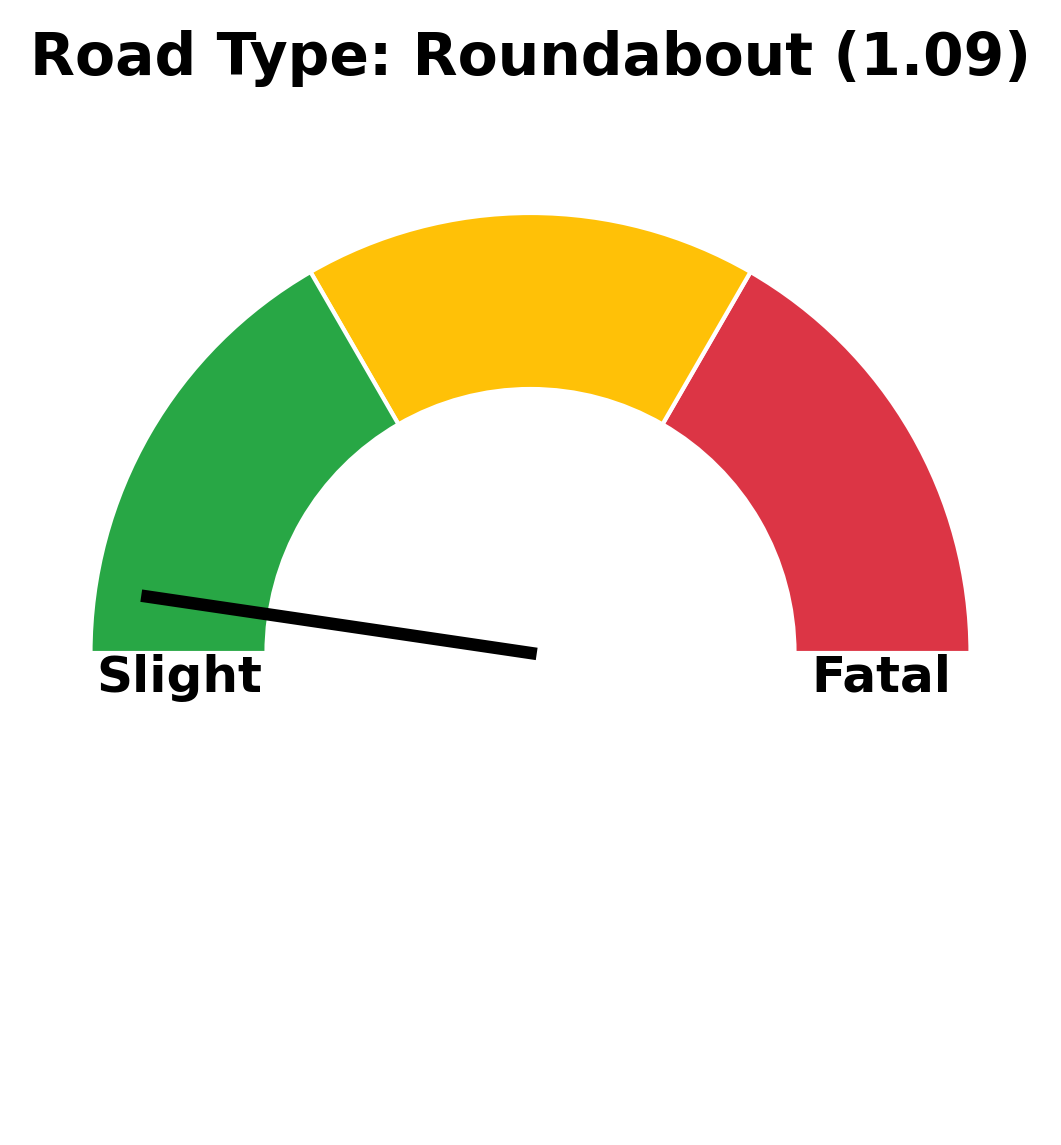
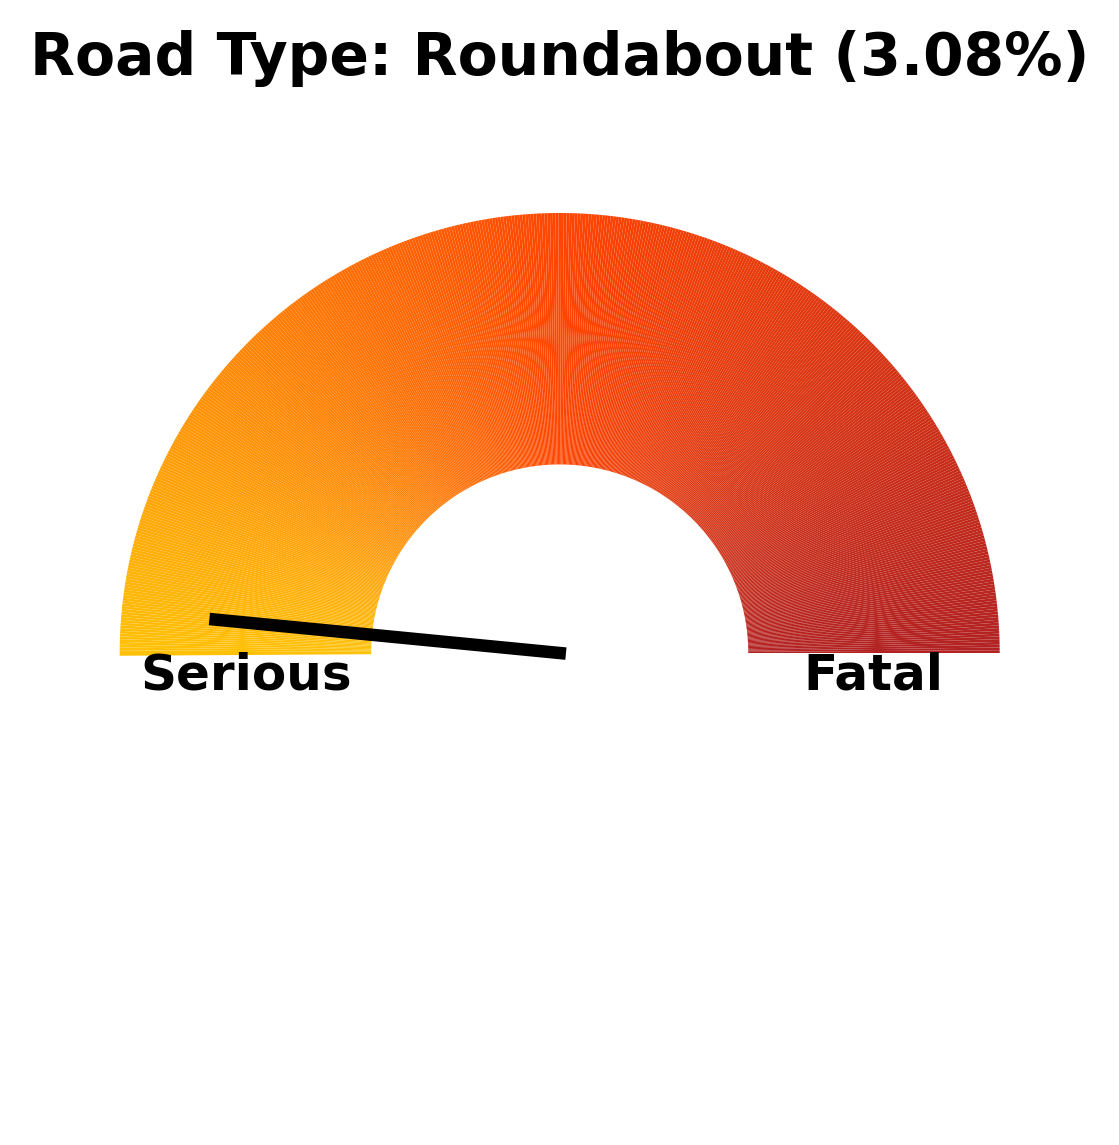
Update tachometer.py

Changed region(s): [[0.0622, 0.1834, 0.9331, 0.6114], [0.0311, 0.0306, 0.9642, 0.0917]]

diff --git a/data_visualization/Python code/tachometr.py b/data_visualization/Python code/tachometr.py
@@ -1,73 +1,84 @@
 import pandas as pd
 import matplotlib.pyplot as plt
+from matplotlib.colors import LinearSegmentedColormap
 import numpy as np
 
-# Leggi il file CSV
+# Read the CSV file
 data = pd.read_csv("reducted.csv")
 
-# Filtra i dati per rimuovere 'Unknown'
+# Filter data to remove 'Unknown'
 data = data[data['Road_Type'] != 'Unknown']
 
-# Mappa Accident_Severity in valori numerici
-severity_map = {"Slight": 1, "Serious": 2, "Fatal": 3}
+# Filter data to remove 'Unknown'
+data = data[data['Accident_Severity'] != 'Slight']
+
+# Map Accident_Severity to numeric values
+severity_map = {"Serious": 0, "Fatal": 1}
 data["Accident_Severity"] = data["Accident_Severity"].map(severity_map)
 
-# Trova i valori unici di Road_Type
+# Find unique values of Road_Type
 road_types = data["Road_Type"].unique()
 
-# Funzione per creare il tachimetro
+# Function to create the gauge chart
+import matplotlib.pyplot as plt
+import numpy as np
+from matplotlib.colors import LinearSegmentedColormap
+
 def create_gauge_chart(value, title, filename):
-    # Controlla se il valore è valido
-    if not np.isfinite(value) or not (1 <= value <= 3):
-        print(f"Errore: valore non valido ({value}) per il grafico {title}")
+    # Check if the value is valid
+    if not np.isfinite(value) or not (0 <= value <= 1):
+        print(f"Error: invalid value ({value}) for the chart {title}")
         return
 
-    print(f"Creazione del grafico per {title} con valore medio: {value}")
+    print(f"Creating chart for {title} with average value: {value}")
 
     fig, ax = plt.subplots(figsize=(6, 4), subplot_kw={'projection': 'polar'})
 
-    # Definisci i colori (verde, giallo, rosso)
-    colors = ['#DC3545', '#FFC107', '#28A745']  # Slight: verde, Serious: giallo, Fatal: rosso
-    intervals = [1, 2, 3]  # Slight, Serious, Fatal
+    # Create a continuous color scale
+    colors = ['#B22222', '#FF4500', '#FFC107']  # Yellow -> Intense orange -> Intense red
+    cmap = LinearSegmentedColormap.from_list("CustomMap", colors)
 
-    # Crea il tachimetro come mezza ciambella
-    for i, color in enumerate(colors):
-        start = np.pi * (i / len(intervals))  # Inizia ogni colore a un'angolazione diversa
-        end = np.pi * ((i + 1) / len(intervals))
-        print(f"Segmento {i}: start={start}, end={end}, color={color}")
-        ax.barh([1], [end - start], left=start, color=color, edgecolor="white", linewidth=1, height=0.5)
+    # Angles for the scale
+    theta = np.linspace(0, np.pi, 500)  # 500 steps from 0 to pi
+    radii = np.ones_like(theta)  # A constant radius to draw the scale
 
-    # Calcola la posizione dell'indicatore (dove si trova il valore medio)
-    value_theta = np.pi * (value - 1) / 2  # Mappa da [1, 3] a [0, pi]
-    print(f"Lancetta: value_theta={value_theta}")
+    # Create the colored scale
+    values = np.linspace(0, 1, 500)  # Values from 0 to 1 along theta
+    colors = cmap(values)  # Apply the color map
 
-    # Inverti la direzione della lancetta
-    value_theta_inverted = np.pi - value_theta  # Inverti la direzione della lancetta
-    ax.plot([value_theta_inverted, value_theta_inverted], [0, 1.1], color="black", linewidth=3, zorder=5)  # Lancetta invertita
+    ax.barh(radii, np.pi / 500, left=theta, color=colors, edgecolor="white", linewidth=0)
 
-    # Titolo del grafico con il valore medio
-    ax.set_title(f"{title} ({value:.2f})", va="bottom", fontsize=14, weight="bold")
+    # Position of the needle (where the average value is located)
+    value_theta = np.pi * value  # Map the value to [0, pi]
+    value_theta_inverted = np.pi - value_theta  # Invert the direction of the needle
+    ax.plot([value_theta_inverted, value_theta_inverted], [0, 1.1], color="black", linewidth=3, zorder=5)
+    value_perc = value * 100  # Convert the value to percentage
+    value_perc_string = f"{value_perc:.2f}%"  # Format as percentage string with two decimal places
 
-    # Aggiungi etichette sotto il grafico
-    ax.text(np.pi+0.07, 1.0, "Slight", ha="center", va="center", fontsize=12, color="black", weight="bold")  # A sinistra
-    ax.text(0-0.07, 1.0, "Fatal", ha="center", va="center", fontsize=12, color="black", weight="bold")      # A destra
+    # Chart title with the average value
+    ax.set_title(f"{title} ({value_perc_string})", va="bottom", fontsize=14, weight="bold")
 
-    # Rimuovi assi e sfondo
+    # Labels for the scale edges
+    ax.text(np.pi+0.07, 1.0, "Serious", ha="center", va="center", fontsize=12, color="black", weight="bold")
+    ax.text(0-0.07, 1.0, "Fatal", ha="center", va="center", fontsize=12, color="black", weight="bold")
+
+    # Remove axes and background
     ax.set_axis_off()
 
-    # Salva il grafico
+    # Save the chart
     plt.savefig(filename, bbox_inches="tight", dpi=300)
     plt.close()
 
-# Genera i grafici per ciascun tipo di strada
+# Generate charts for each road type
 for road_type in road_types:
     road_data = data[data["Road_Type"] == road_type]
     
-    # Calcola la media della gravità
+    # Calculate the average severity
     mean_severity = road_data["Accident_Severity"].mean()
+    mean_severity_perc = mean_severity * 100
     
-    # Debug: Stampa il valore calcolato
-    print(f"Valore medio per {road_type}: {mean_severity}")
+    # Debug: Print the calculated value
+    print(f"Average value for {road_type}: {mean_severity_perc}%")
     
     create_gauge_chart(mean_severity, f"Road Type: {road_type}", f"{road_type}_Severity.png")
-    print(f"Grafico creato per Road_Type: {road_type}")
+    print(f"Chart created for Road_Type: {road_type}")

diff --git a/data_visualization/Python code/uk.py b/data_visualization/Python code/uk.py
@@ -28,7 +28,7 @@ incident_percentages = (incident_counts / total_incidents) * 100
 districts_shapefile['incident_percentage'] = districts_shapefile['LAD24NM'].map(incident_percentages).fillna(0)
 
 # Create the choropleth map
-fig, ax = plt.subplots(figsize=(20, 20)) 
+fig, ax = plt.subplots(figsize=(14, 14)) 
 
 plt.subplots_adjust(left=0.05, right=0.95, top=0.95, bottom=0.05)
 
